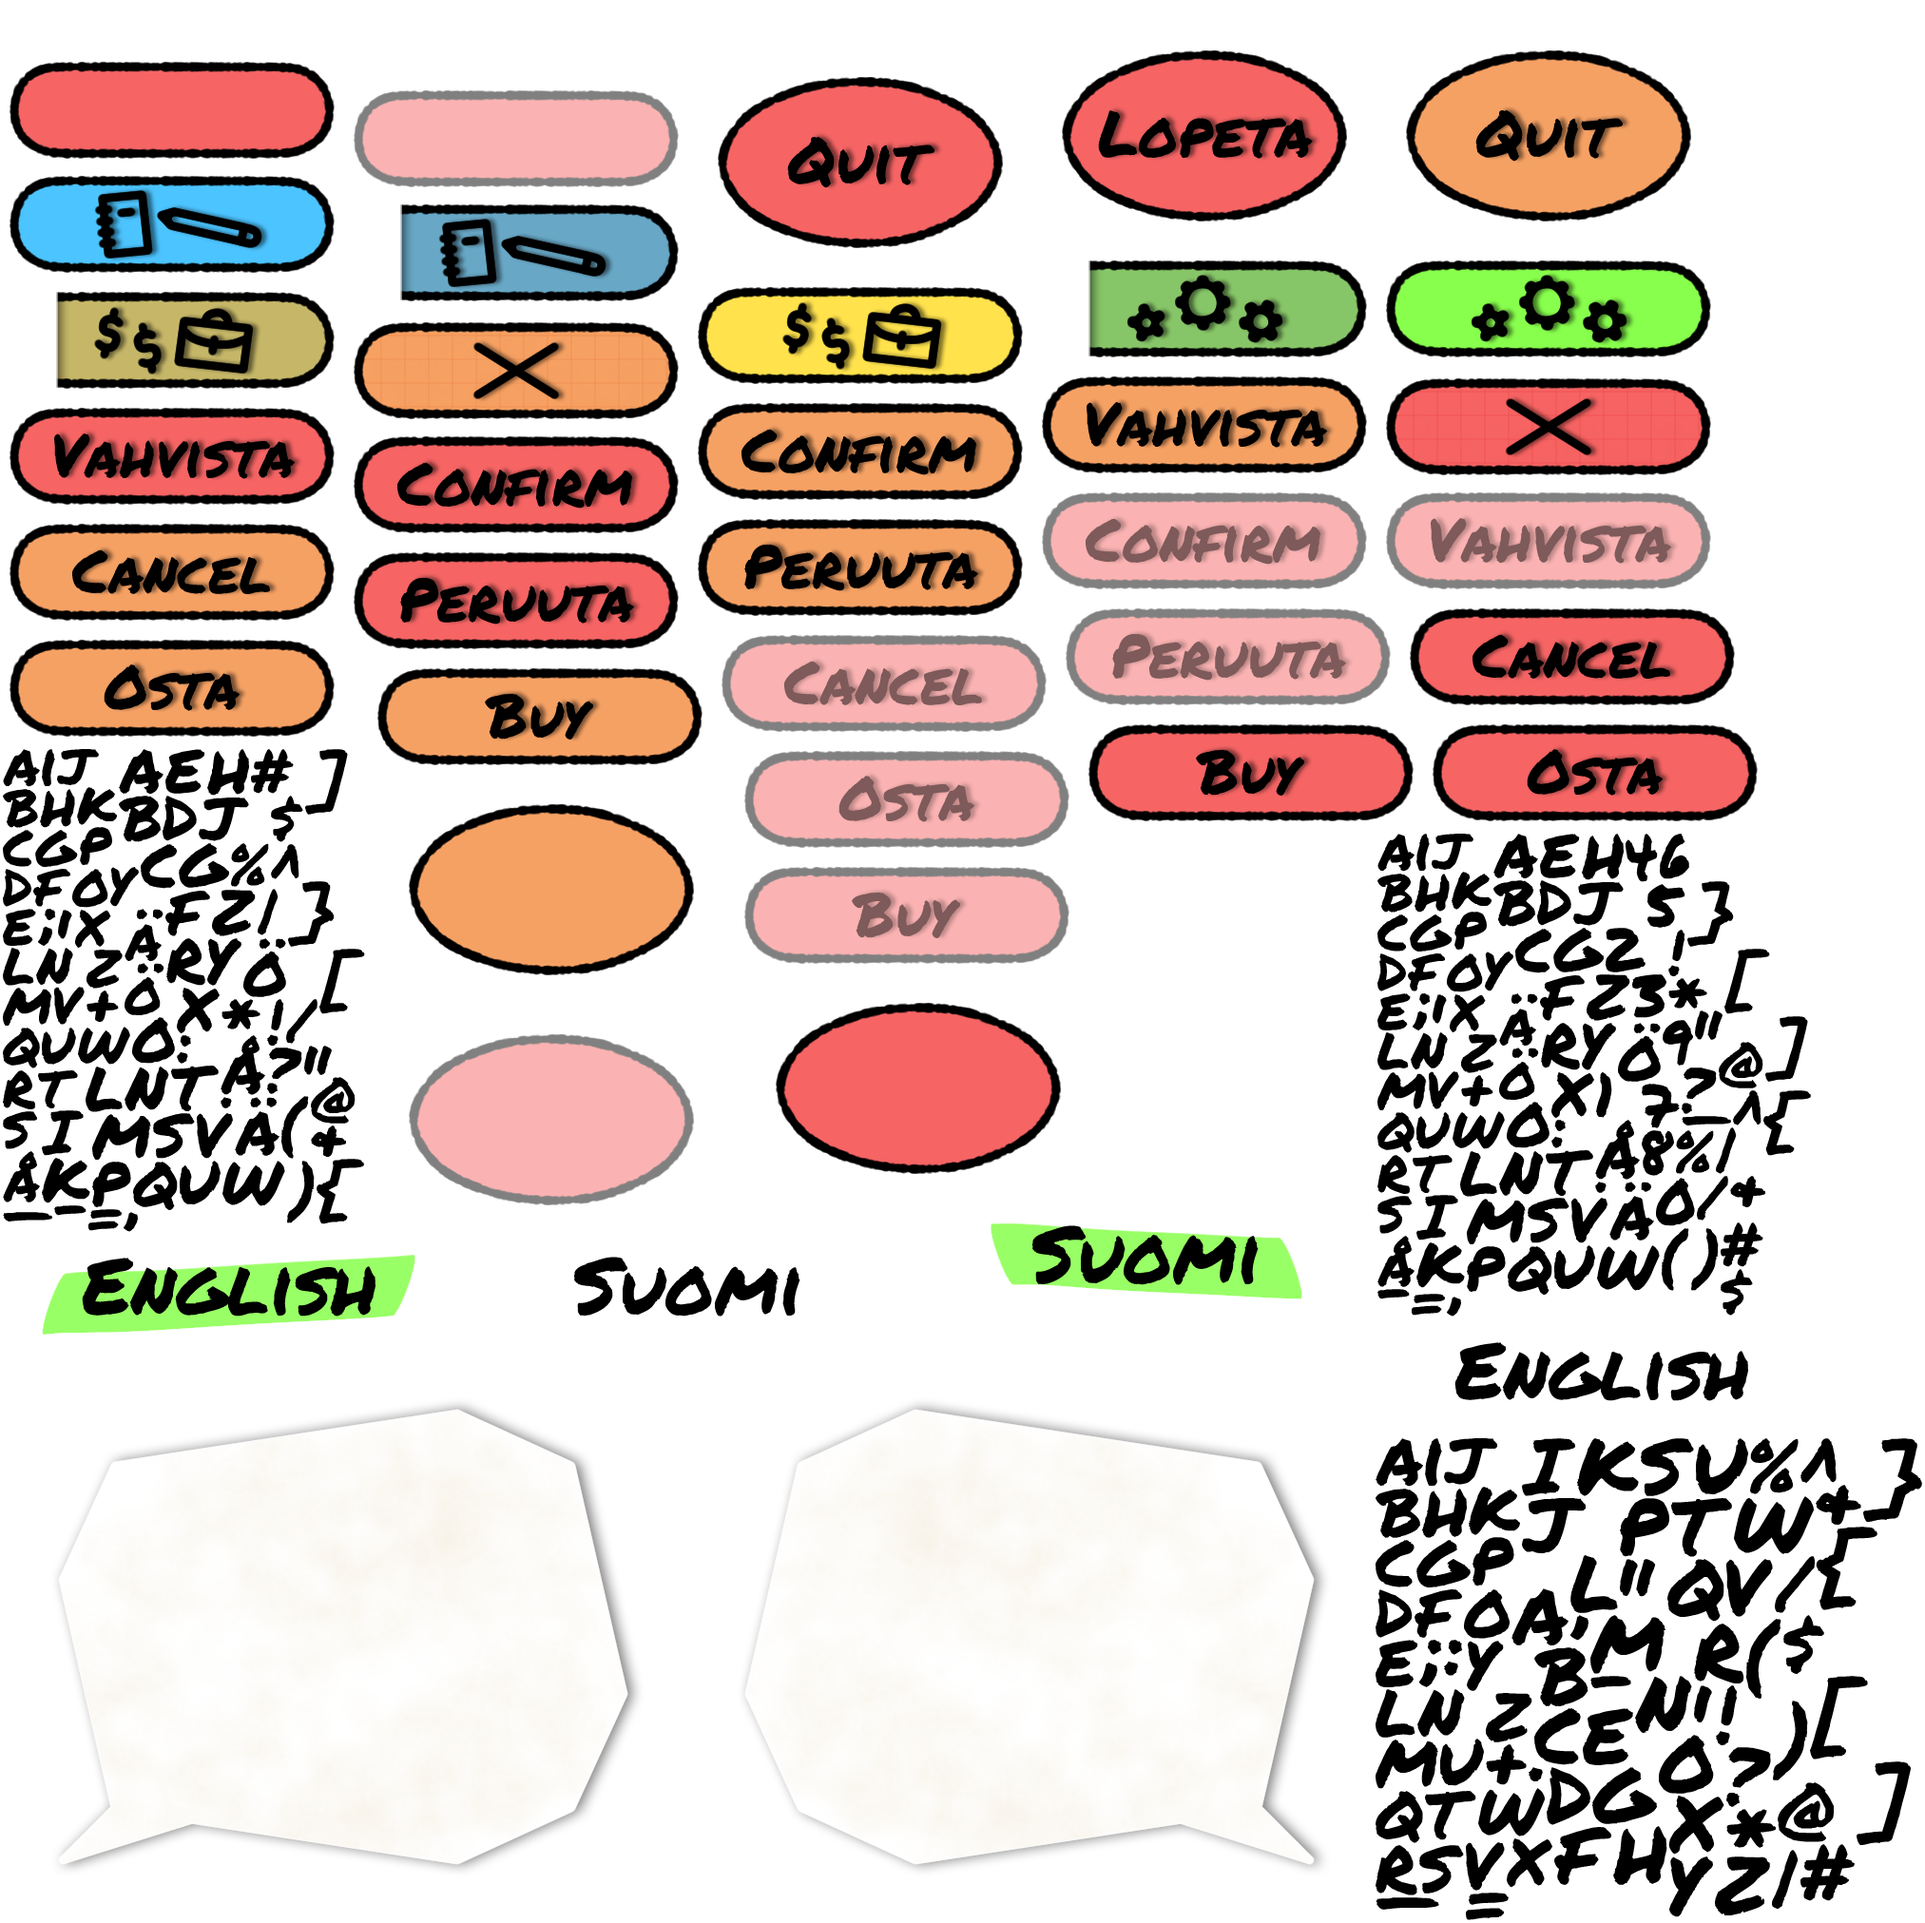
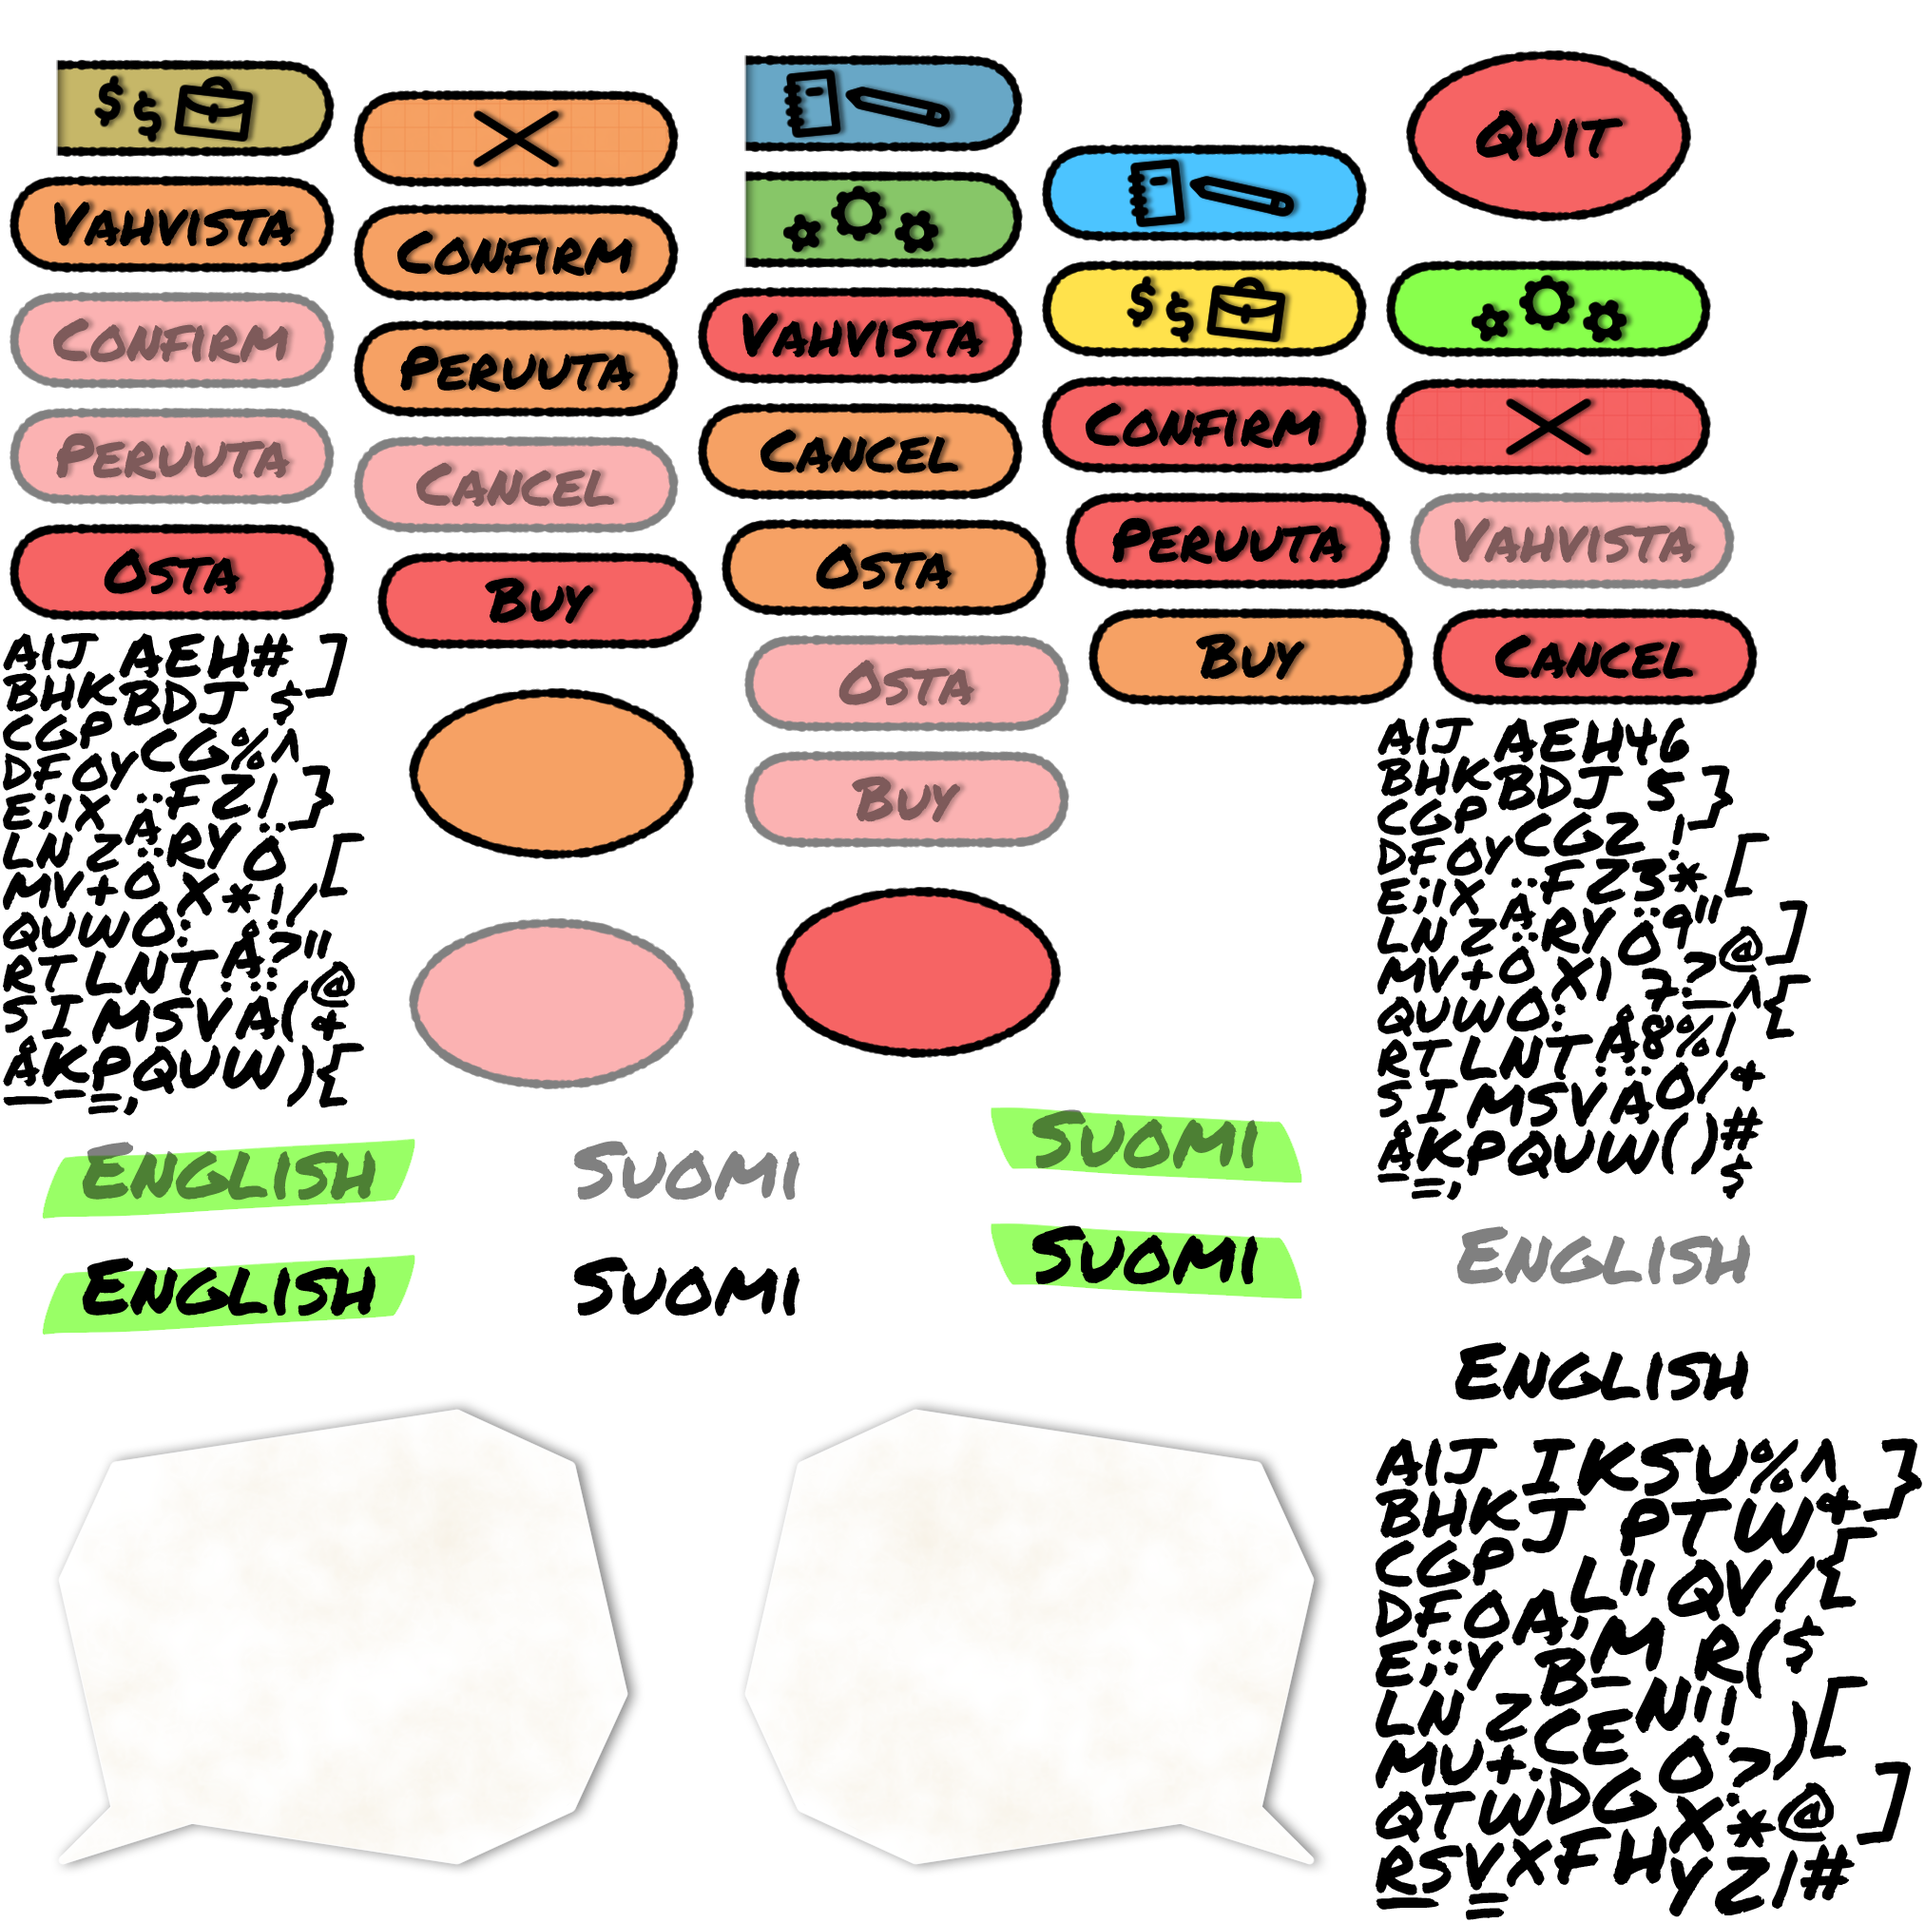
Language-buttons are now touchable only in hallway.

Changed region(s): [[0.0, 0.0, 0.9333, 0.6851]]

diff --git a/core/src/fi/tamk/fi/Settings.java b/core/src/fi/tamk/fi/Settings.java
@@ -5,6 +5,7 @@ import com.badlogic.gdx.graphics.Color;
 import com.badlogic.gdx.scenes.scene2d.Actor;
 import com.badlogic.gdx.scenes.scene2d.InputEvent;
 import com.badlogic.gdx.scenes.scene2d.Stage;
+import com.badlogic.gdx.scenes.scene2d.Touchable;
 import com.badlogic.gdx.scenes.scene2d.ui.Dialog;
 import com.badlogic.gdx.scenes.scene2d.ui.ImageButton;
 import com.badlogic.gdx.scenes.scene2d.ui.Label;
@@ -311,36 +312,51 @@ public class Settings {
     }
 
     private void createLanguageButtons() {
-        buttonFi = new ImageButton(finalSkin, "finnish");
+        String finnishStyle = "finnish";
+        String englishStyle = "english";
+        if (room == "fight") {
+            finnishStyle = "finnish_off";
+            englishStyle = "english_off";
+        }
+
+        buttonFi = new ImageButton(finalSkin, finnishStyle);
         buttonFi.setPosition(945, 240);
+        buttonFi.setTouchable(Touchable.disabled);
         if (lan.equals("fi")) {
             buttonFi.setChecked(true);
         }
-        buttonFi.addListener(new ClickListener(){
-            @Override
-            public void clicked(InputEvent event, float x, float y){
+        if (room == "hall") {
+            buttonFi.setTouchable(Touchable.enabled);
+            buttonFi.addListener(new ClickListener() {
+                @Override
+                public void clicked(InputEvent event, float x, float y) {
                 /*buttonEn.setChecked(false);
                 buttonFi.setChecked(true);
                 settingsDialog.remove();*/
                 game.languageToFIN();
-            }
-        });
+                }
+            });
+        }
 
-        buttonEn = new ImageButton(finalSkin, "english");
+        buttonEn = new ImageButton(finalSkin, englishStyle);
         buttonEn.setPosition(buttonFi.getX(), buttonFi.getY() - 120);
+        buttonEn.setTouchable(Touchable.disabled);
         if (lan.equals("en")) {
             buttonEn.setChecked(true);
         }
-        buttonEn.addListener(new ClickListener(){
-            @Override
-            public void clicked(InputEvent event, float x, float y){
+        if (room == "hall") {
+            buttonEn.setTouchable(Touchable.enabled);
+            buttonEn.addListener(new ClickListener() {
+                @Override
+                public void clicked(InputEvent event, float x, float y) {
                 /*buttonFi.setChecked(false);
                 buttonEn.setChecked(true);
                 settingsDialog.remove();
                 Settings settings = new Settings(game, room);*/
                 game.languageToENG();
-            }
-        });
+                }
+            });
+        }
 
         settingsDialog.addActor(buttonFi);
         settingsDialog.addActor(buttonEn);
